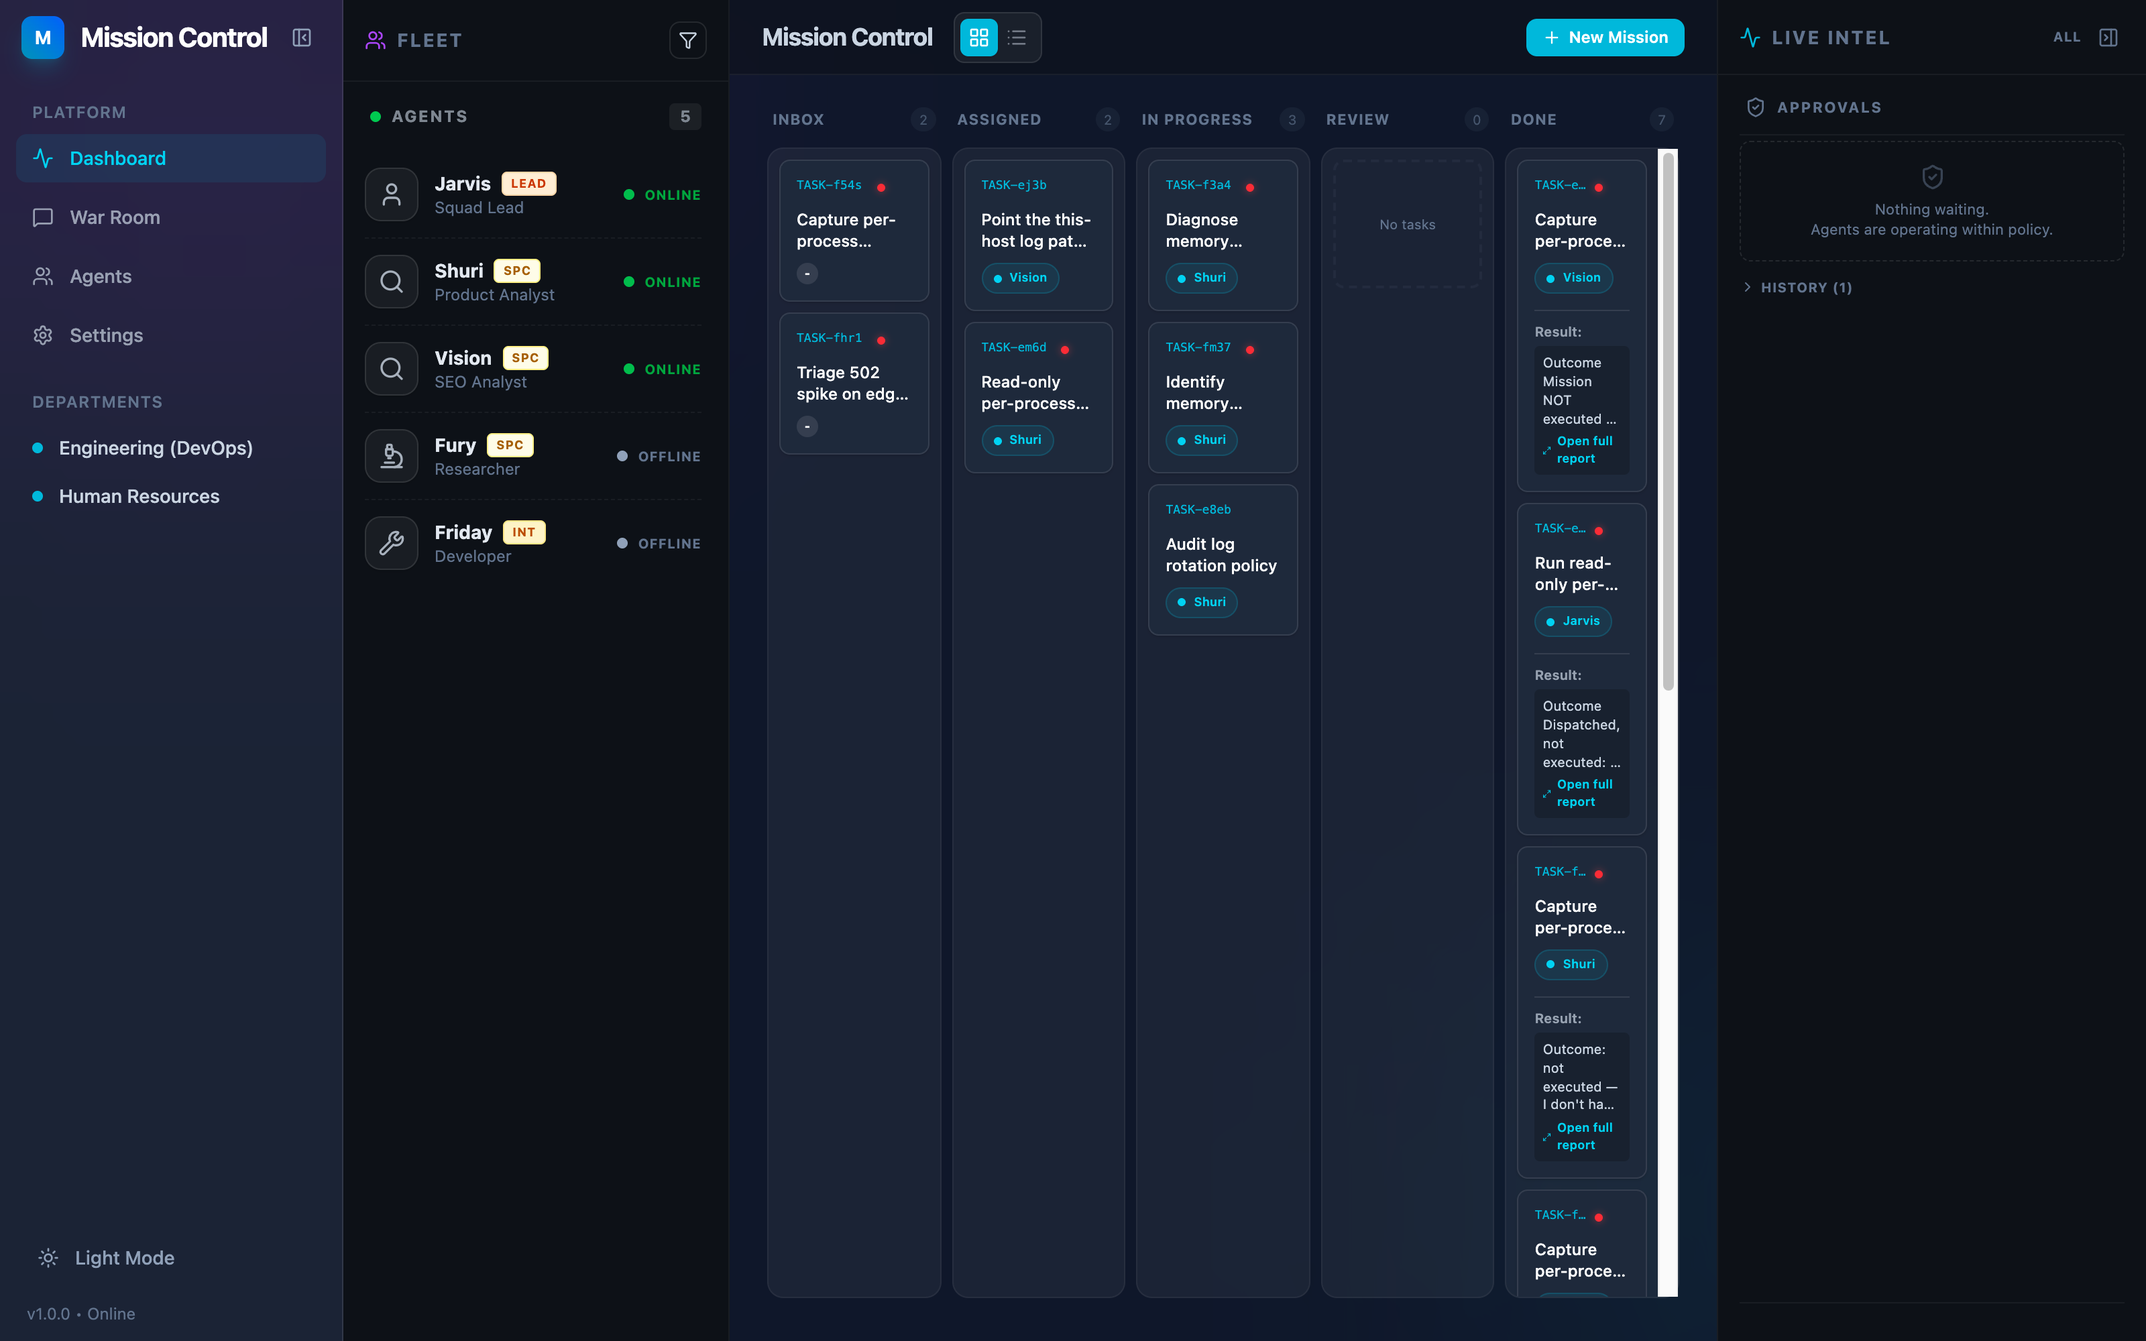
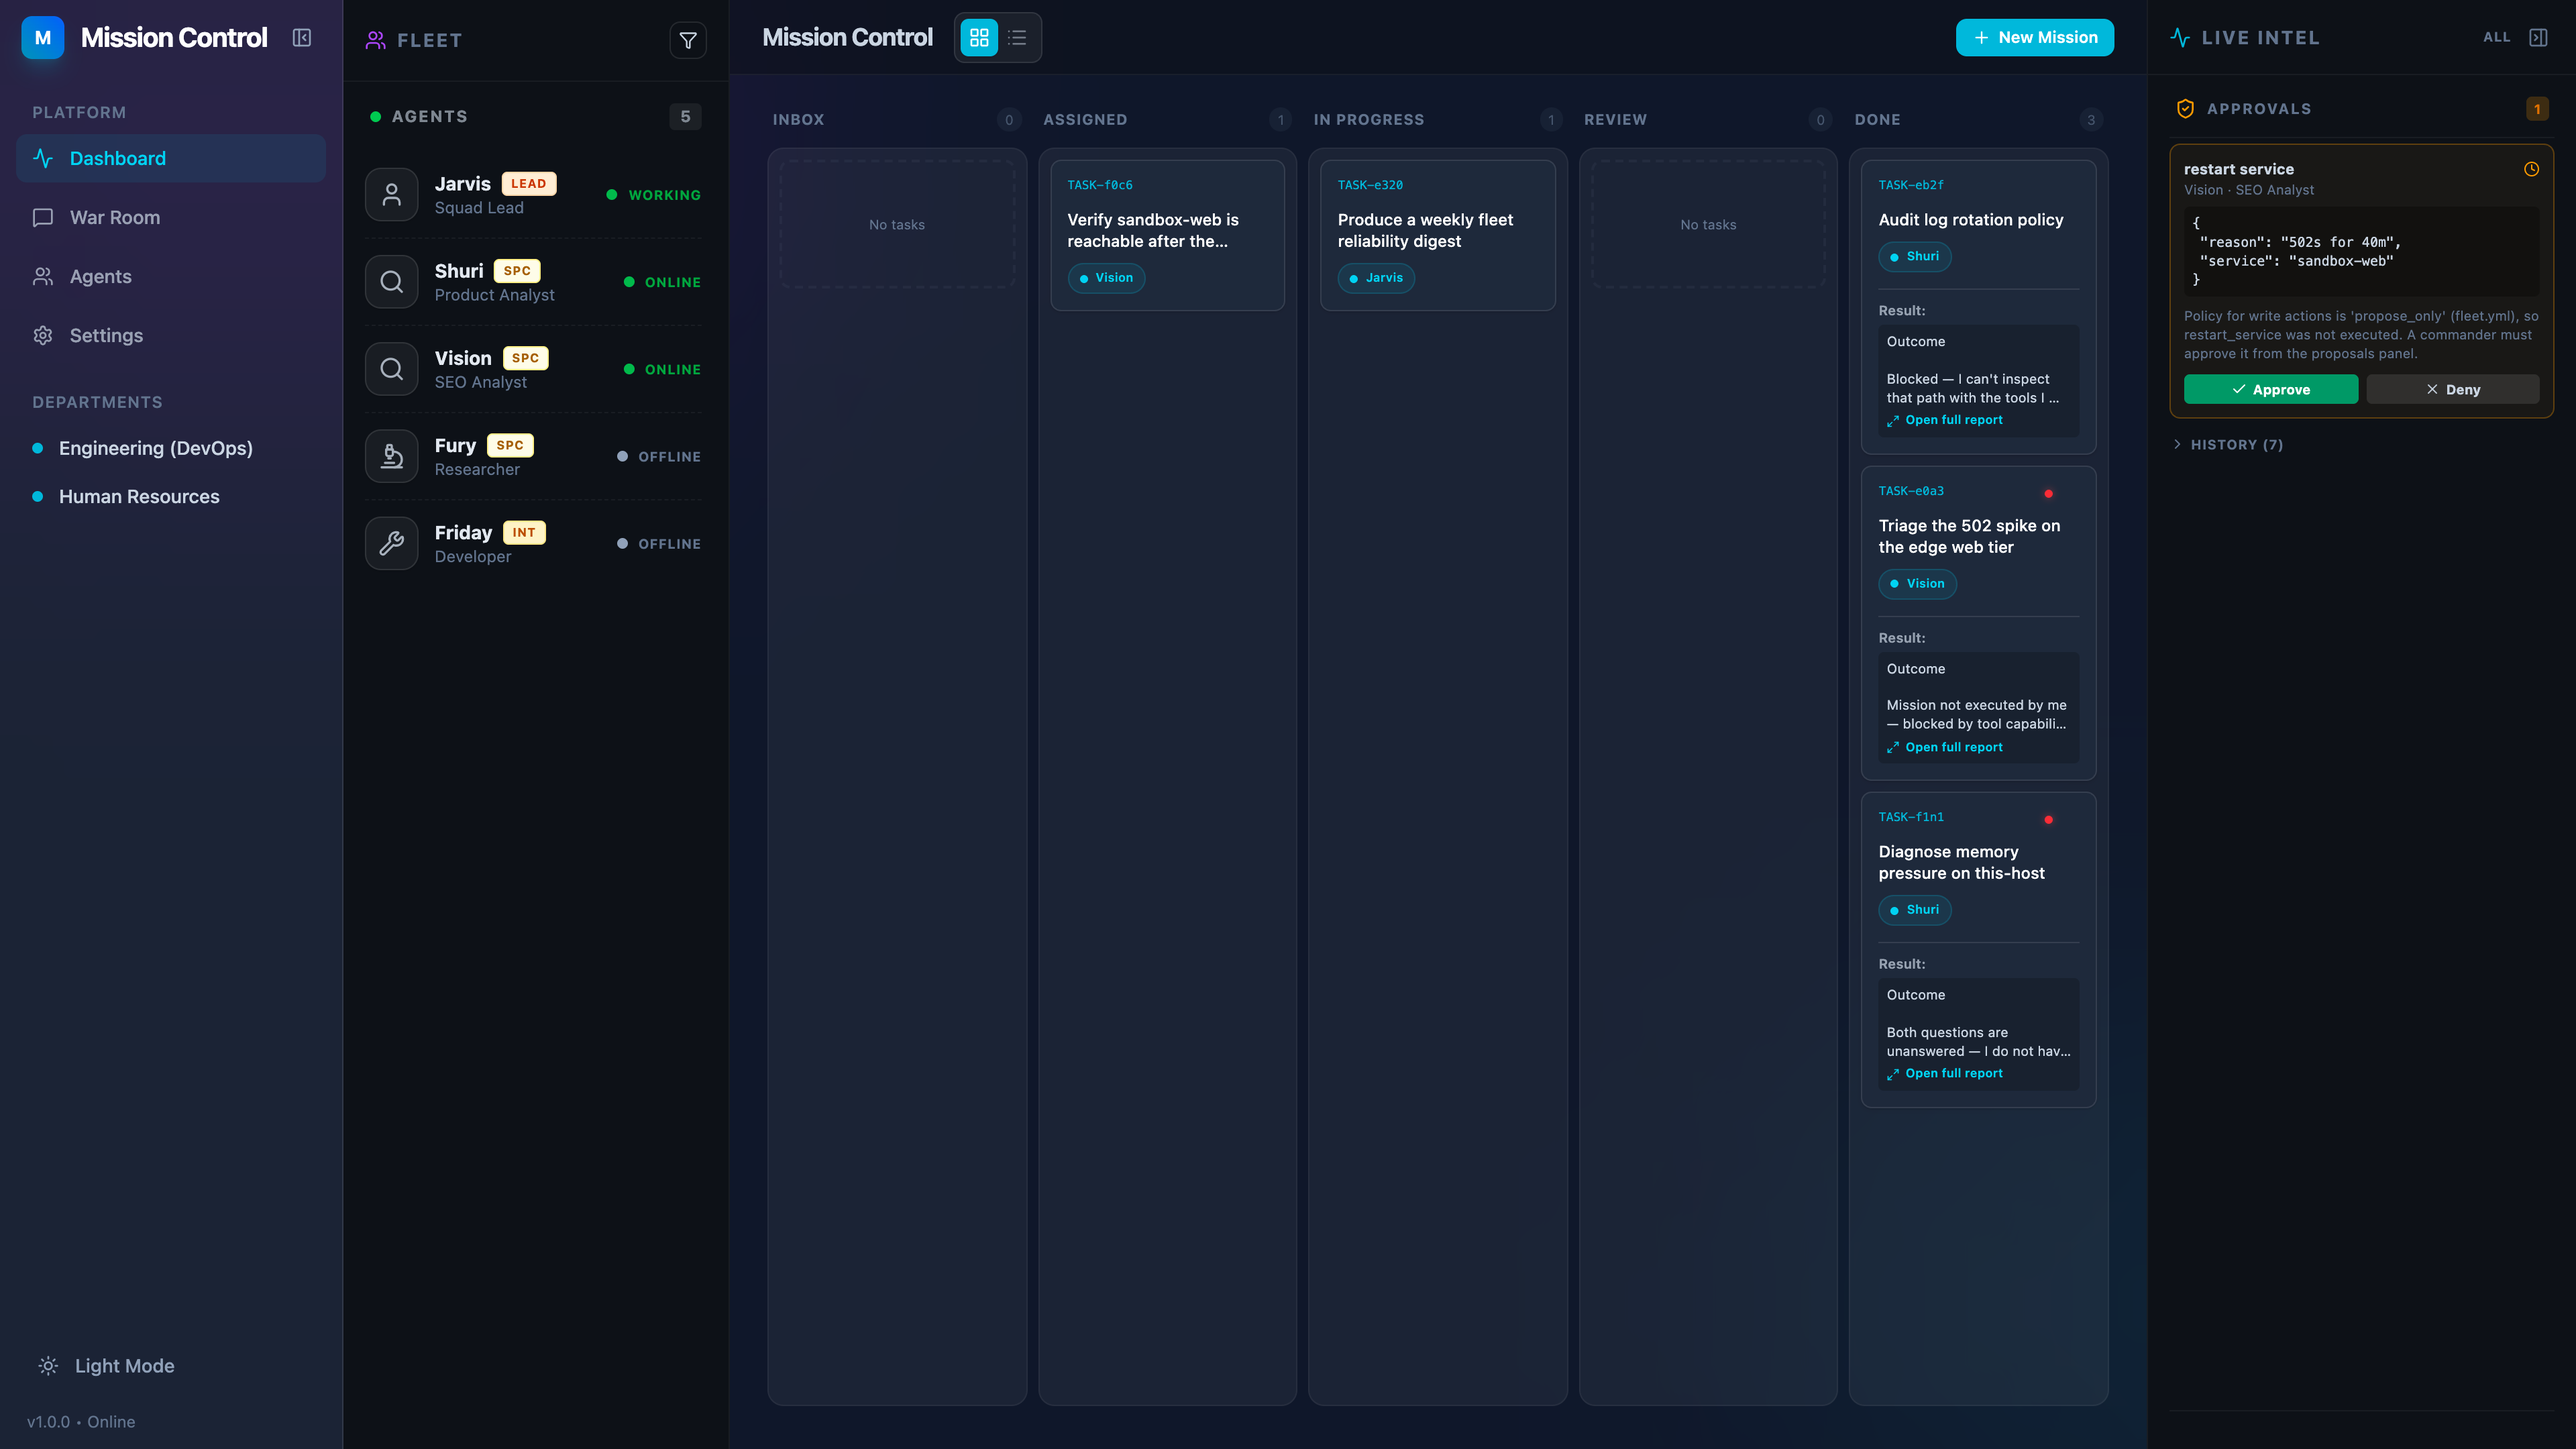
fix: API key resolution and stale-task crashes
Two bugs found by running the thing after a restart.

1. Empty API key with provider=openai-compatible.

resolveLlmConfig looked up ENV_KEY_BY_PROVIDER[providerName] and fell back to
LLM_API_KEY only. "openai-compatible" is not a vendor so it is absent from that
map, which meant OPENAI_API_KEY was never consulted: the provider got an empty
string, sent "Authorization: Bearer " with nothing after it, and every call
failed 401 "Invalid authentication credential".

The failure was disguised by a warning that fired only for missing keys on
non-local hosts, so doctor blamed the key rather than the lookup. Now the
resolution tries the provider-specific var, then LLM_API_KEY, then
OPENAI_API_KEY, then fleet.yml, and the warning names what it actually tried.

2. A deleted task killed the runner loop.

tasks.complete and tasks.updateStatus threw "Unauthorized" when the task row was
gone, because the missing-task and wrong-org cases shared one condition. A
runner that had claimed a task and then had the board wiped would die on
completion with a misleading auth error, taking the whole polling loop with it.

Now a missing task returns { ok: false, reason: "task_missing" } and logs,
while a genuine org mismatch still throws with a message that says so. The work
is moot if the task no longer exists; it should not be fatal.

Verified: doctor green, three agents online with live heartbeats, board drained
from 1 stuck task to 6 done.

diff --git a/scripts/llm/index.ts b/scripts/llm/index.ts
@@ -84,18 +84,37 @@ export function resolveLlmConfig(cfg?: LlmConfig): {
         );
     }
 
-    const keyEnvVar = ENV_KEY_BY_PROVIDER[providerName] ?? "LLM_API_KEY";
-    const apiKey =
-        process.env.LLM_API_KEY?.trim() ||
-        (keyEnvVar ? process.env[keyEnvVar]?.trim() : undefined) ||
-        fromFile.apiKey ||
-        "";
+    // Key resolution. `openai-compatible` is not a vendor, so there is no single
+    // env var for it: it could be a gateway, a proxy, or a local server. Try the
+    // specific provider first, then the generic names, then the file.
+    //
+    // This used to look up ENV_KEY_BY_PROVIDER[providerName] and fall back to
+    // LLM_API_KEY only, so setting OPENAI_API_KEY with provider=openai-compatible
+    // silently produced an empty key and a 401 from the gateway.
+    const specific = ENV_KEY_BY_PROVIDER[providerName];
+    const candidates = [
+        specific,
+        "LLM_API_KEY",
+        // A generic fallback worth having: most people with one key for an
+        // OpenAI-shaped endpoint set it as OPENAI_API_KEY whatever the host is.
+        "OPENAI_API_KEY",
+    ].filter((v): v is string => Boolean(v));
+
+    let apiKey = "";
+    for (const envVar of candidates) {
+        const v = process.env[envVar]?.trim();
+        if (v) {
+            apiKey = v;
+            break;
+        }
+    }
+    if (!apiKey) apiKey = (fromFile.apiKey ?? "").trim();
 
     // Local servers legitimately need no key; hosted ones do. Warn rather than throw
     // so a forker sees the problem in doctor output instead of a wall of 401s.
     const isLocal = /localhost|127\.0\.0\.1|0\.0\.0\.0|host\.docker\.internal/.test(baseUrl);
     if (!apiKey && providerName !== "anthropic" && !isLocal) {
-        warnings.push(`No API key found for ${providerName}. Tried LLM_API_KEY and ${keyEnvVar || "(none)"}.`);
+        warnings.push(`No API key found for ${providerName}. Tried ${candidates.join(", ")} and llm.apiKey in fleet.yml.`);
     }
 
     return {

diff --git a/convex/tasks.ts b/convex/tasks.ts
@@ -53,9 +53,14 @@ export const updateStatus = mutation({
     handler: async (ctx, args) => {
         const orgId = await maybeGetOrgId(ctx);
         const task = await ctx.db.get(args.id);
-        if (!task || (orgId && task.orgId !== orgId)) throw new Error("Unauthorized");
+        if (!task) {
+            console.warn(`updateStatus: task ${args.id} no longer exists; ignoring`);
+            return { ok: false, reason: "task_missing" as const };
+        }
+        if (orgId && task.orgId !== orgId) throw new Error("Unauthorized: task belongs to another org");
 
         await ctx.db.patch(args.id, { status: args.status, lastUpdated: Date.now() });
+        return { ok: true as const };
     },
 });
 
@@ -133,7 +138,15 @@ export const complete = mutation({
     handler: async (ctx, args) => {
         const orgId = await maybeGetOrgId(ctx);
         const task = await ctx.db.get(args.taskId);
-        if (!task || (orgId && task.orgId !== orgId)) throw new Error("Unauthorized");
+
+        // A task can disappear between claim and complete (wiped board, deleted by
+        // a human). Throwing here killed the runner loop with a misleading
+        // "Unauthorized"; return quietly instead, since the work is moot.
+        if (!task) {
+            console.warn(`complete: task ${args.taskId} no longer exists; ignoring`);
+            return { ok: false, reason: "task_missing" as const };
+        }
+        if (orgId && task.orgId !== orgId) throw new Error("Unauthorized: task belongs to another org");
 
         await ctx.db.patch(args.taskId, {
             status: 'done',

diff --git a/mission-control-dashboard/src/index.css b/mission-control-dashboard/src/index.css
@@ -1,2 +1,17 @@
 @import "tailwindcss";
 @plugin "@tailwindcss/typography";
+
+/*
+ * Scrollbars are hidden on the panes that scroll (sidebar, kanban lanes, chat)
+ * because they are scroll-by-trackpad surfaces, not scroll-by-drag ones. The
+ * class is used by Layout, CommandCenter and TaskBoard; without it the browser
+ * paints its default light scrollbar over a dark theme, which reads as a bug.
+ */
+.no-scrollbar {
+    scrollbar-width: none; /* Firefox */
+    -ms-overflow-style: none; /* legacy Edge/IE */
+}
+
+.no-scrollbar::-webkit-scrollbar {
+    display: none; /* Chrome, Safari, Edge */
+}
